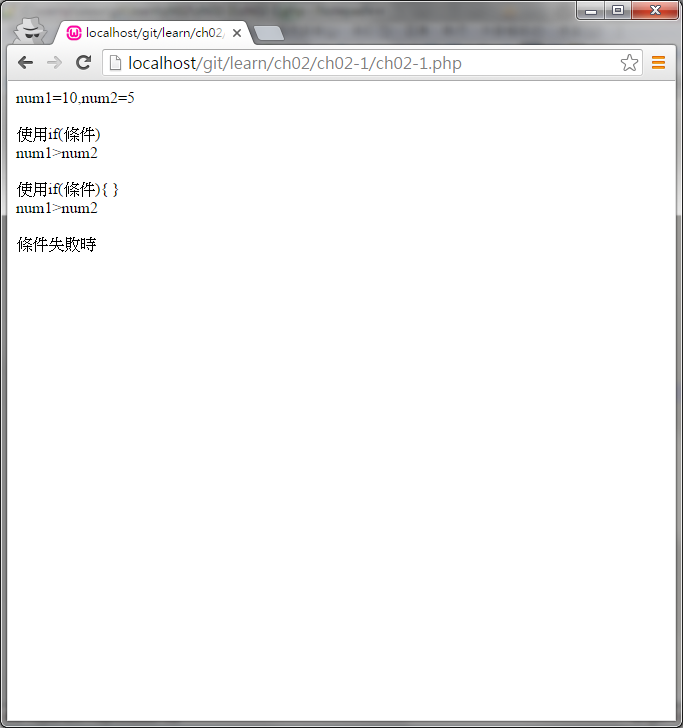
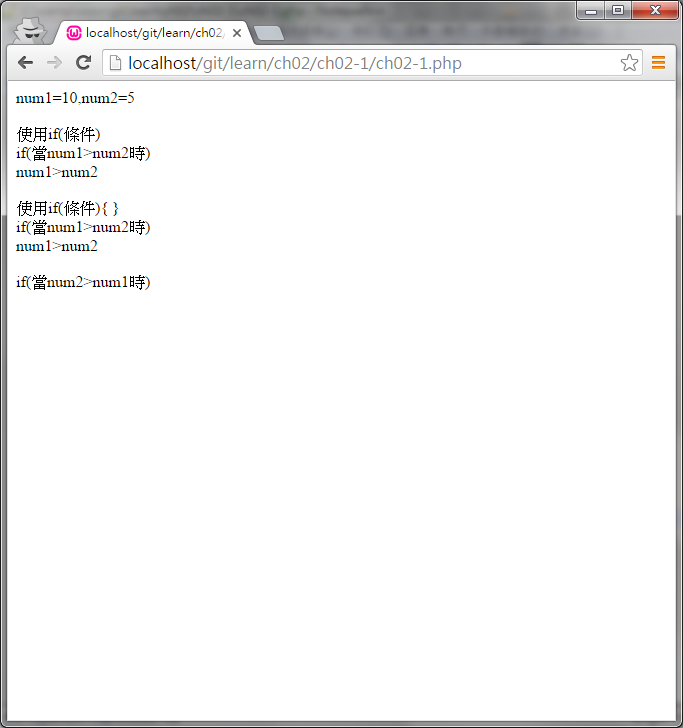
ch02

Changed region(s): [[0.0307, 0.1813, 0.2152, 0.3929]]

diff --git a/ch02/ch02-1/ch02-1.php b/ch02/ch02-1/ch02-1.php
@@ -8,6 +8,7 @@ echo "num1=".$num1.",num2=".$num2."<br>";
 //宣告兩個變數一個值為10另外一個為5，值的部分可以隨意調整
 
 echo "<br>使用if(條件)<br>";
+echo "if(當num1>num2時)<br>";
 if($num1>$num2)
 	echo "num1>num2<br>";
 //使用if(條件)
@@ -15,6 +16,7 @@ if($num1>$num2)
 //目前num1=10,num2=5，所以當num1>num2的時候會印出num1>num2
 
 echo "<br>使用if(條件){ }<br>";
+echo "if(當num1>num2時)<br>";
 if($num1>$num2)
 {
 	echo "num1>num2";
@@ -23,7 +25,7 @@ if($num1>$num2)
 //使用if(條件){程式區塊}
 //如果當你要執行的程式超過一行時，則用大括號將要執行的程式區塊包起來
 
-echo "<br>條件失敗時<br>";
+echo "<br>if(當num2>num1時)<br>";
 if($num2>$num1)
 {
 	echo "num2>num1";
